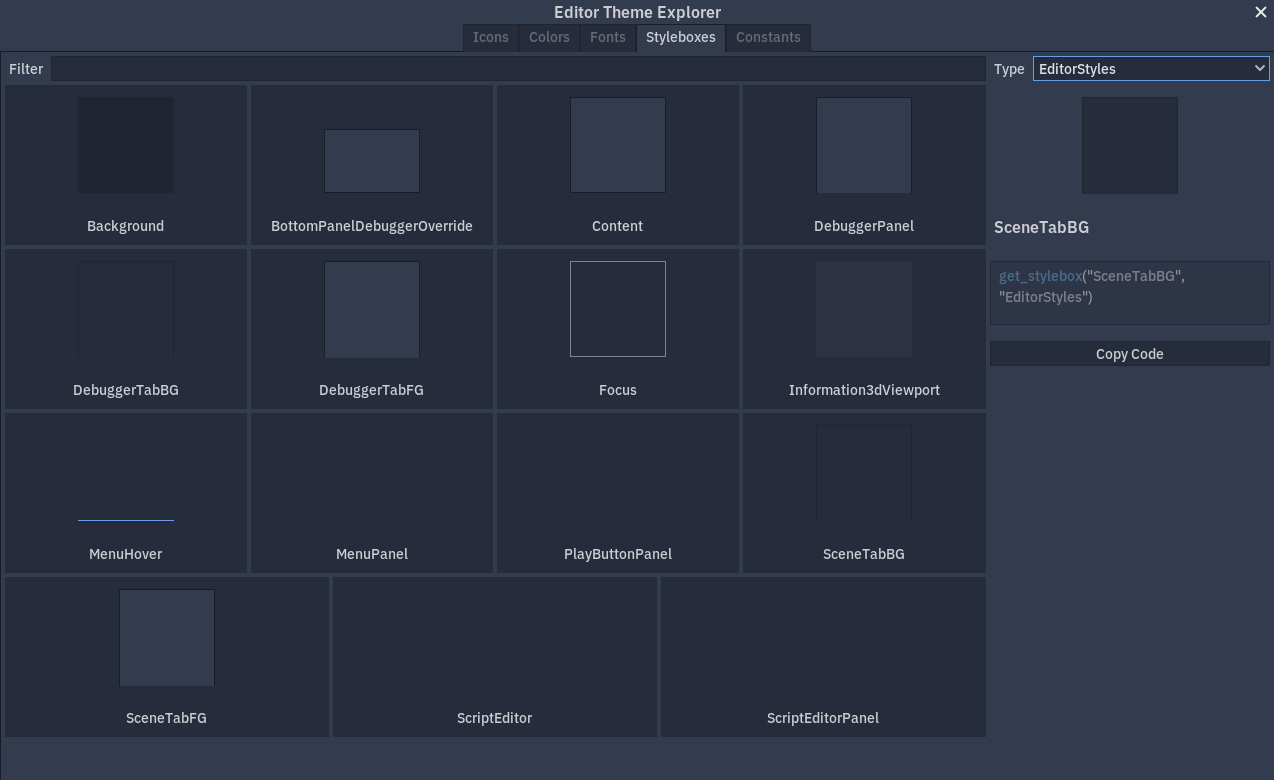
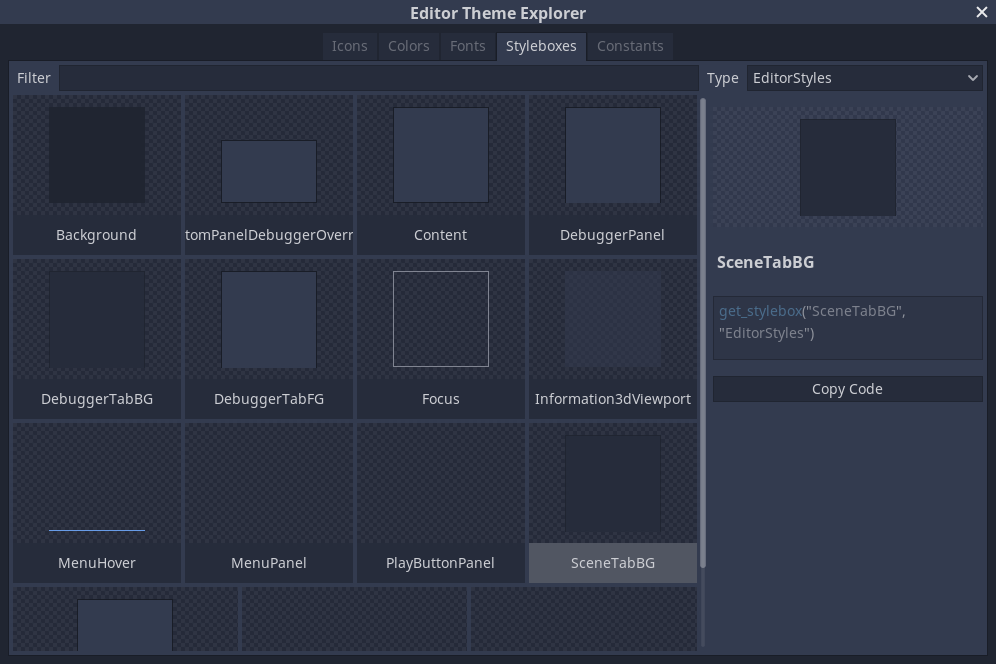
Update readme, previews; bump version

diff --git a/README.md b/README.md
@@ -1,7 +1,7 @@
 # Godot Editor Theme Explorer
 Editor plugin which allows plugin developers to quickly reference various `Theme` properties defined in the main Editor Theme. This allows creators to make GUI for their plugins as seamless as possible, relying on style definitions made by Godot Engine developers and giving their users a consistent look across the board.
 
-Developed in and tested against Godot 3.2.
+Developed in and tested against Godot 3.2/3.3.
 
 ## Installation
 Clone this repository or download it as ZIP. You only need to put `addons/explore-editor-theme` folder inside your project folder. ZIP already has only necessary files.
@@ -20,6 +20,8 @@ There are 5 sections, giving access to *Icons*, *Colors*, *Fonts*, *Styleboxes*,
 
 Icons are listed with their name and a 16x16 preview image. Most of the icons are only usable at that scale. In the right-hand panel a bigger preview image is displayed, at 64x64.
 
+Icons can be saved as a PNG file, however only at their current scale. Editor icons are generated at runtime from SVG sources depending on the editor scale setting. Consider locating the icon you need in [Godot's sources](https://github.com/godotengine/godot/tree/master/editor/icons).
+
 ### Colors
 ![Icons tab](images/preview-3.png)
 
@@ -33,7 +35,7 @@ Fonts are demonstrated using a sample text, that can be customized by a user.
 ### Styleboxes
 ![Icons tab](images/preview-5.png)
 
-Styleboxes are previewed by being applied to a small `Panel`. A lot of them do not carry any visual style, or can have a style that matches background.
+Styleboxes are previewed by being applied to a small `Panel`. A lot of them do not carry any visual style, or can have a style that matches background, so a checkered background is used once again to give a better idea of what each Stylebox does.
 
 ### Constants
 ![Icons tab](images/preview-6.png)
